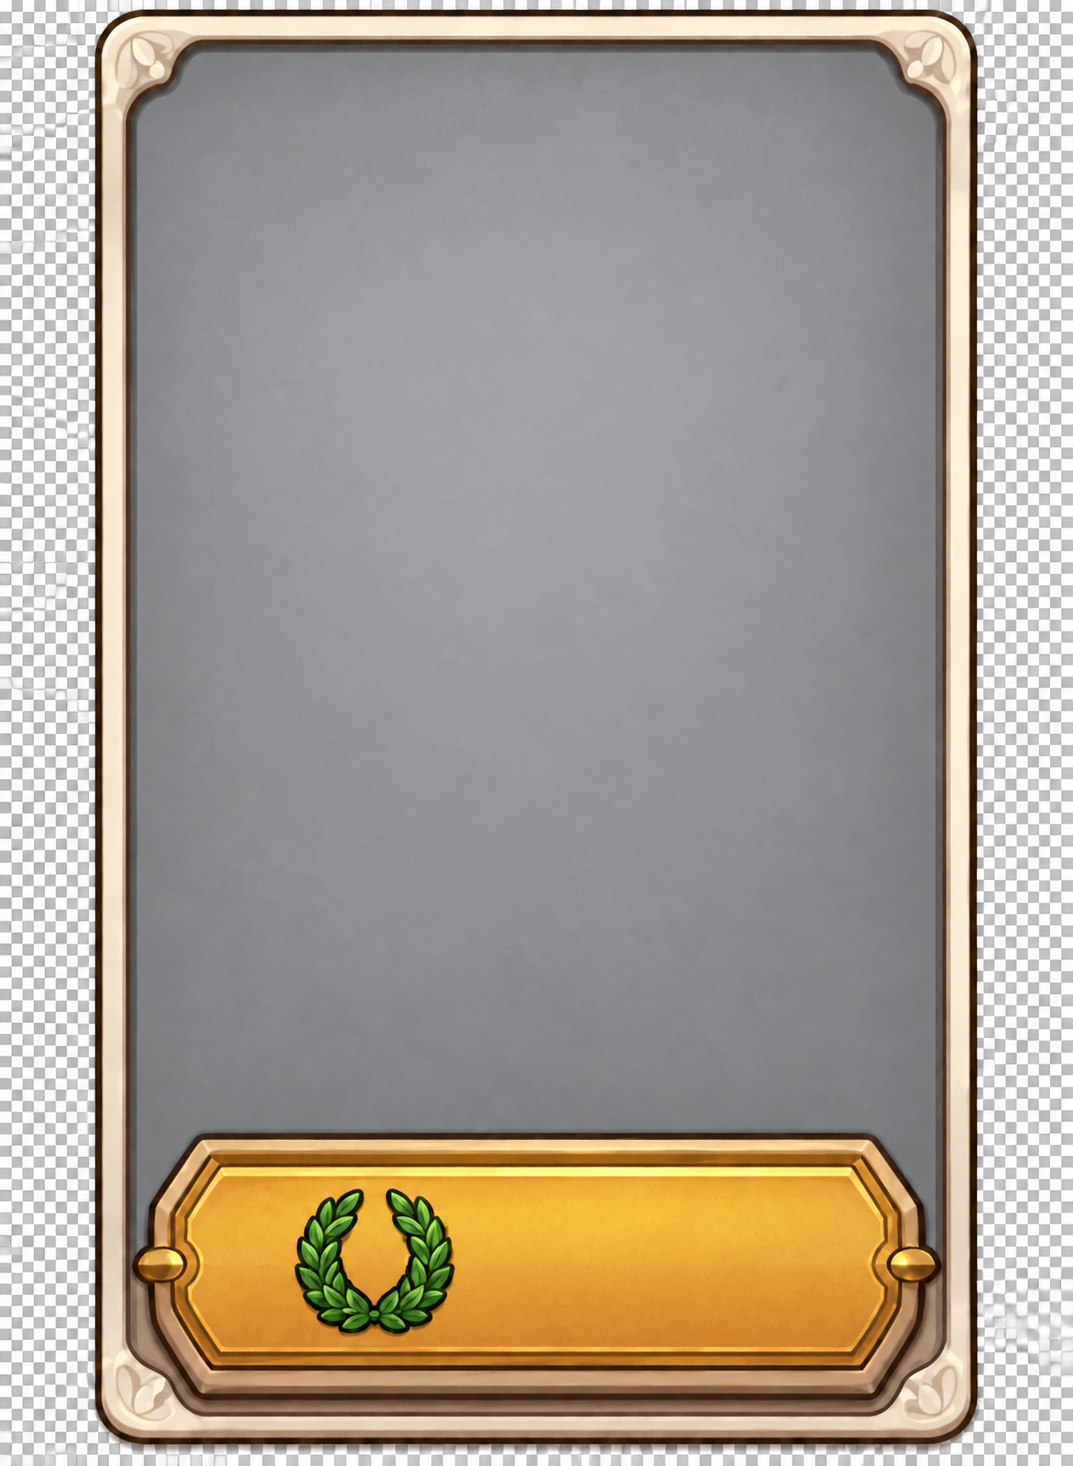
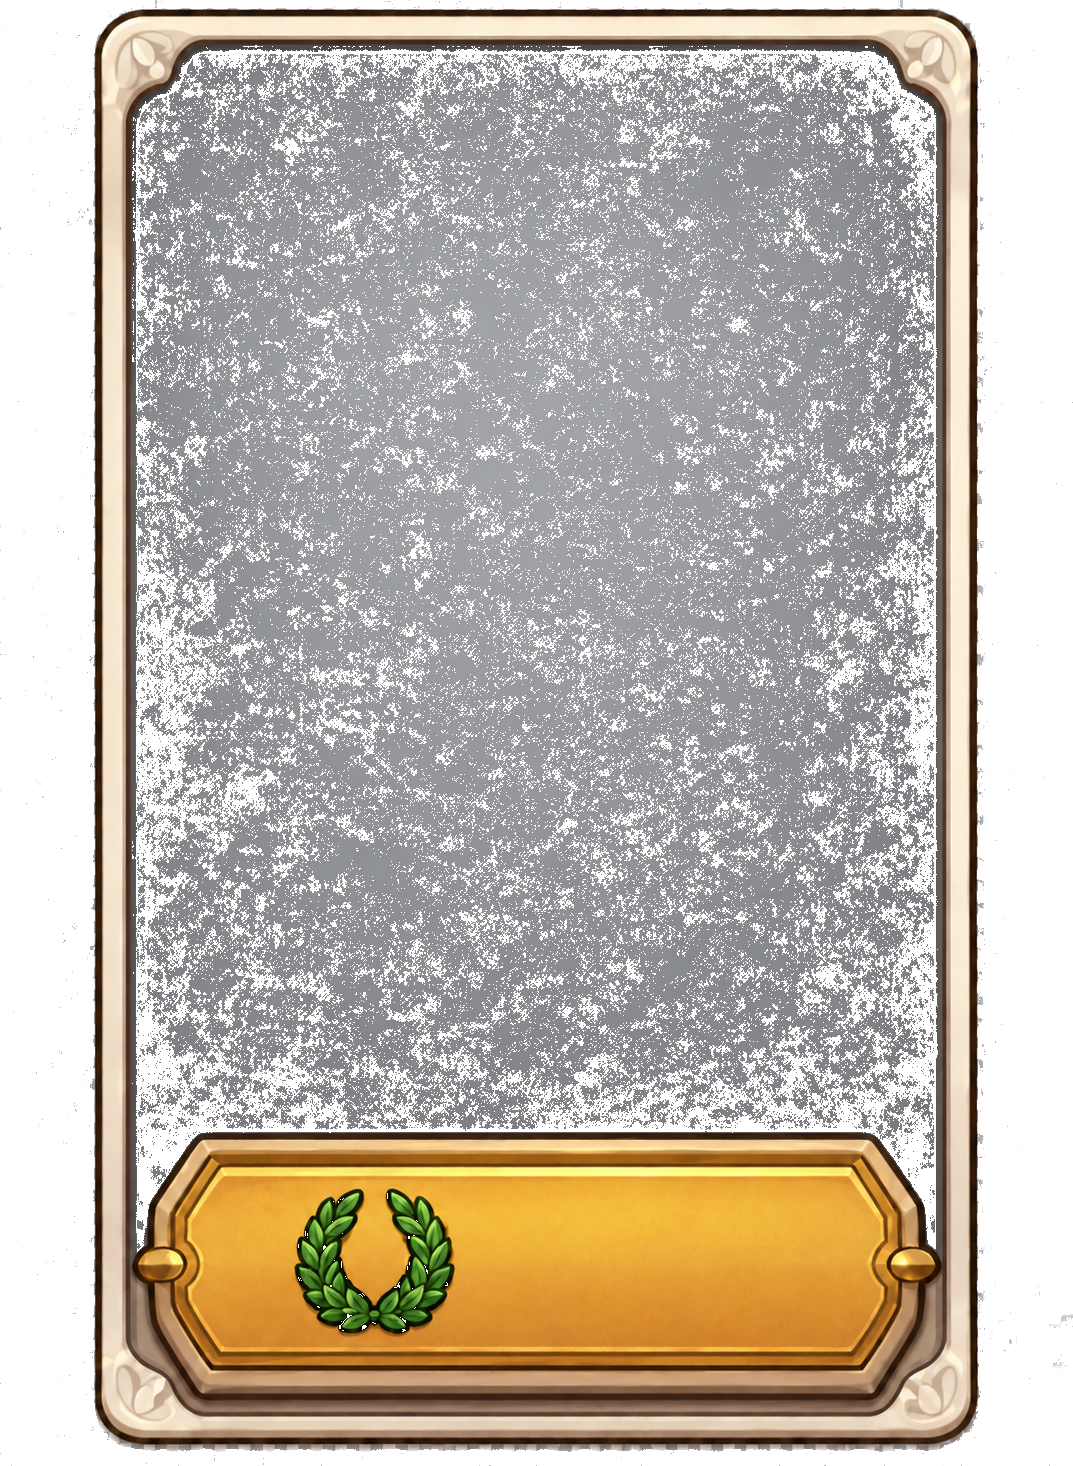
Affiche les parures dans leur cadre de rareté, en vitrine glissante
- SkinCard.tsx : la vignette d'une parure — son cadre (Case_Mortelle /
  Heroique / Titanesque / Olympienne selon sa rareté), son illustration,
  son nom et son prix posé à côté de la couronne déjà gravée dans la
  plaque. Le prix est lui-même le bouton d'achat.
- ShopTab.tsx : le rayon « Parures » montre trois pièces choisies
  (Rage du Lion, Roi des Abysses, Messager d'Or) dans une rangée qui
  glisse à l'horizontale, à la place de l'ancienne grille de pastilles
  de couleur.
- icons.ts / menuAssets.ts : RARITY_FRAMES, la table des quatre cadres,
  préchargée comme le reste des images du menu.
- Corrige les quatre PNG de cadre : leur "transparence" était en fait
  un damier gris cuit dans les pixels (aucun canal alpha) — détourés
  proprement, sans quoi ils s'affichaient avec un damier visible autour
  des coins arrondis.
- Renomme Case_Héroïque.png en Case_Heroique.png (accent + décomposition
  Unicode = introuvable par Metro, même bug que le skin Zeus plus tôt).

Claude-Session: https://claude.ai/code/session_01J9hr6RFML6j26TS1ZBtZyV

Changed region(s): [[0.0, 0.0, 1.0, 1.0], [0.4613, 0.2763, 0.4921, 0.307]]

diff --git a/src/ui/menu/ShopTab.tsx b/src/ui/menu/ShopTab.tsx
@@ -22,12 +22,22 @@
  * parure porte donc toujours l'icône du laurier, jamais celle de l'or.
  */
 
-import { Image, ScrollView, StyleSheet, Text, View } from 'react-native';
+import { ScrollView, StyleSheet, Text, View } from 'react-native';
 import { CHARACTER_ORDER, characterById, type CharacterId } from '../../entities/characters/roster';
 import { characterPrice, ownsCharacter, ownsSkin, type Progression } from '../../meta/progression';
-import { GOLD_PACKS, LAUREL_PACKS, purchasableSkins, RARITY_COLOR } from '../../meta/store';
+import { GOLD_PACKS, LAUREL_PACKS, skinById } from '../../meta/store';
 import { Button, Card, Coin, GodBadge, Laurel, SectionTitle } from './parts';
-import { COLORS, RADIUS, SPACE, TYPE, hex } from './theme';
+import { SkinCard } from './SkinCard';
+import { COLORS, RADIUS, SPACE, TYPE } from './theme';
+
+/**
+ * Le rayon des parures montre trois pièces choisies, pas tout le
+ * catalogue : une vitrine, pas une liste. En attendant un vrai tirage
+ * (rotation, mise en avant), la sélection reste fixe ici.
+ */
+const FEATURED_SKIN_IDS = ['ares-rage-du-lion', 'poseidon-roi-des-abysses', 'hermes-messager-d-or'] as const;
+
+const SKIN_CARD_WIDTH = 220;
 
 interface Props {
   state: Progression;
@@ -37,8 +47,9 @@ interface Props {
 
 export function ShopTab({ state, onBuyCharacter, onBuySkin }: Props) {
   const characters = CHARACTER_ORDER.filter((id) => !ownsCharacter(state, id));
-  const skins = purchasableSkins().filter(
-    (skin) => ownsCharacter(state, skin.characterId) && !ownsSkin(state, skin.id),
+  const skins = FEATURED_SKIN_IDS.map((id) => skinById(id)).filter(
+    (skin): skin is NonNullable<typeof skin> =>
+      skin !== null && ownsCharacter(state, skin.characterId) && !ownsSkin(state, skin.id),
   );
   const featured = GOLD_PACKS.find((pack) => pack.featured) ?? GOLD_PACKS[0];
 
@@ -111,33 +122,24 @@ export function ShopTab({ state, onBuyCharacter, onBuySkin }: Props) {
       {skins.length > 0 && (
         <>
           <SectionTitle>Parures</SectionTitle>
-          <View style={styles.skinRow}>
+          <ScrollView
+            horizontal
+            showsHorizontalScrollIndicator={false}
+            snapToInterval={SKIN_CARD_WIDTH + SPACE.md}
+            decelerationRate="fast"
+            contentContainerStyle={styles.skinRail}
+            nestedScrollEnabled
+          >
             {skins.map((skin) => {
-              const isModel = skin.rarity === 'olympien';
-              const characterAppearance = characterById(skin.characterId).appearance;
-              // Une recolorée (mortel/héros/titan) se reconnaît d'un coup
-              // d'œil à sa couleur ; une olympienne est un modèle 3D à part,
-              // pas encore prévisualisable en jeu — mais son illustration
-              // (`preview`), quand elle existe, vaut mieux que le rond de
-              // couleur uni.
+              const cannotAfford = state.laurels < skin.price;
               return (
-                <Card key={skin.id} style={[styles.skin, isModel && styles.skinLegendary]}>
-                  {skin.preview !== undefined ? (
-                    <Image source={skin.preview} style={styles.skinPreview} resizeMode="contain" />
-                  ) : (
-                    <View
-                      style={[
-                        styles.skinDot,
-                        {
-                          backgroundColor: hex(isModel ? characterAppearance.color : skin.color),
-                          borderColor: hex(RARITY_COLOR[skin.rarity]),
-                        },
-                      ]}
-                    />
-                  )}
-                  <Text style={styles.skinLabel} numberOfLines={1}>
-                    {skin.label}
-                  </Text>
+                <View key={skin.id} style={styles.skinSlot}>
+                  <SkinCard
+                    skin={skin}
+                    width={SKIN_CARD_WIDTH}
+                    onBuy={() => onBuySkin(skin.id)}
+                    disabled={cannotAfford}
+                  />
                   <Text style={styles.skinGod} numberOfLines={1}>
                     {characterById(skin.characterId).label}
                   </Text>
@@ -145,7 +147,7 @@ export function ShopTab({ state, onBuyCharacter, onBuySkin }: Props) {
                     testID={`buy-${skin.id}`}
                     label="Acheter"
                     variant="primary"
-                    disabled={state.laurels < skin.price}
+                    disabled={cannotAfford}
                     price={
                       <>
                         <Laurel size={14} />
@@ -156,10 +158,10 @@ export function ShopTab({ state, onBuyCharacter, onBuySkin }: Props) {
                     hint={`Acheter la parure ${skin.label}`}
                     style={styles.skinButton}
                   />
-                </Card>
+                </View>
               );
             })}
-          </View>
+          </ScrollView>
         </>
       )}
 
@@ -230,16 +232,13 @@ const styles = StyleSheet.create({
   rowSub: { ...TYPE.body, fontSize: 12, color: COLORS.muted },
   rowButton: { minWidth: 92 },
 
-  skinRow: { flexDirection: 'row', flexWrap: 'wrap', gap: SPACE.sm },
-  skin: { width: '31%', minWidth: 96, alignItems: 'center', gap: 2 },
-  // Le cadre doré signale une légendaire : pas de recoloration à montrer, il
-  // faut un autre repère visuel — cohérent avec le laurier de son prix.
-  skinLegendary: { borderColor: COLORS.gold, borderWidth: 2 },
-  skinDot: { width: 30, height: 30, borderRadius: 15, borderWidth: 3 },
-  skinPreview: { width: 56, height: 56 },
-  skinLabel: { ...TYPE.strong, fontSize: 13, color: COLORS.text },
+  // La rangée glisse à l'horizontale : une carte à la fois, en plein cadre,
+  // plutôt qu'une grille qui aurait tassé les cadres de rareté au point de
+  // ne plus se lire.
+  skinRail: { gap: SPACE.md, paddingHorizontal: SPACE.sm },
+  skinSlot: { width: SKIN_CARD_WIDTH, alignItems: 'center', gap: SPACE.xs },
   skinGod: { ...TYPE.body, fontSize: 11, color: COLORS.muted },
-  skinButton: { alignSelf: 'stretch', marginTop: SPACE.xs, minHeight: 34 },
+  skinButton: { alignSelf: 'stretch', minHeight: 34 },
   skinPrice: { ...TYPE.price, fontSize: 13, color: COLORS.onGold },
 
   empty: { ...TYPE.body, color: COLORS.text, textAlign: 'center', lineHeight: 20 },

diff --git a/src/ui/menu/SkinCard.tsx b/src/ui/menu/SkinCard.tsx
@@ -1,0 +1,131 @@
+/**
+ * SkinCard.tsx — la vignette d'une parure : son cadre de rareté, gravé
+ * autour de son illustration.
+ *
+ * ⚠ Les quatre cadres (`RARITY_FRAMES`) viennent d'un même gabarit dessiné
+ * à la main : une plaque à lauriers en bas, un panneau pour l'illustration
+ * au-dessus. Les repères ci-dessous (`ART_BOX`, `NAME_BAND`, `PRICE_SPOT`)
+ * sont MESURÉS sur ce gabarit, en fractions de la carte — ils ne bougent
+ * qu'ensemble avec le dessin des cadres, jamais par rareté : les quatre
+ * partagent la même mise en page, seule la teinte et la bordure changent.
+ *
+ * ⚠ Le prix se pose À CÔTÉ de la couronne DÉJÀ gravée dans la plaque : n'en
+ * ajoute jamais une seconde à côté du nombre, le cadre en porte déjà une.
+ */
+
+import { Image, Pressable, StyleSheet, Text, View } from 'react-native';
+import type { Skin } from '../../meta/store';
+import { RARITY_FRAMES } from './icons';
+import { COLORS, FONTS, RADIUS } from './theme';
+
+/** Un texte gravé, clair et cerclé de sombre : lisible sur les quatre fonds de cadre, de l'or clair au bordeaux. */
+const engraved = {
+  color: '#fbf1dc',
+  textShadowColor: 'rgba(30, 15, 5, 0.75)',
+  textShadowOffset: { width: 0, height: 1 },
+  textShadowRadius: 3,
+} as const;
+
+/** Aspect (largeur / hauteur) de chaque cadre — ils ne sont pas tout à fait carrés. */
+const FRAME_ASPECT: Readonly<Record<Skin['rarity'], number>> = {
+  mortel: 1073 / 1466,
+  heros: 1086 / 1448,
+  titan: 1080 / 1457,
+  olympien: 1080 / 1457,
+};
+
+/** Le panneau qui reçoit l'illustration, en fractions de la carte. */
+const ART_BOX = { left: '14.4%', right: '14.7%', top: '3%', bottom: '38%' } as const;
+
+/** La bande du nom, entre le bas de l'illustration et la plaque à lauriers. */
+const NAME_BAND = { left: '10%', right: '10%', top: '63.5%', height: '13%' } as const;
+
+/** Le prix, posé juste après la couronne déjà gravée dans la plaque. */
+const PRICE_SPOT = { left: '43%', right: '6%', top: '78.5%', height: '17%' } as const;
+
+export function SkinCard({
+  skin,
+  width,
+  onBuy,
+  disabled,
+}: {
+  skin: Skin;
+  width: number;
+  /** Appelé quand le joueur touche le prix, sur la plaque du cadre. */
+  onBuy?: () => void;
+  disabled?: boolean;
+}) {
+  // Une hauteur EN POINTS, pas `aspectRatio` : les enfants ci-dessous sont
+  // posés en `position: absolute` avec des pourcentages, qui ont besoin
+  // d'une hauteur déjà connue du conteneur pour se résoudre.
+  const height = width / FRAME_ASPECT[skin.rarity];
+
+  return (
+    <View style={{ width, height }}>
+      <Image
+        source={RARITY_FRAMES[skin.rarity]}
+        resizeMode="stretch"
+        // ⚠ `StyleSheet.absoluteFill` seul (juste les quatre insets) laisse
+        // react-native-web retomber sur la taille NATURELLE de l'image tant
+        // que sa propre taille n'est pas posée — d'où `width`/`height` à
+        // 100 % en plus des insets, sur le web comme sur mobile.
+        style={[StyleSheet.absoluteFill, styles.frame]}
+        accessible={false}
+        importantForAccessibility="no"
+      />
+
+      {skin.preview !== undefined && (
+        <View style={[styles.artBox, ART_BOX]}>
+          <Image source={skin.preview} resizeMode="contain" style={styles.art} />
+        </View>
+      )}
+
+      <View style={[styles.nameBand, NAME_BAND]}>
+        <Text style={styles.name} numberOfLines={2} adjustsFontSizeToFit>
+          {skin.label}
+        </Text>
+      </View>
+
+      {/* La plaque à lauriers EST le bouton d'achat : toucher le prix achète
+          la parure, pas seulement le bouton séparé sous la carte. */}
+      <Pressable
+        onPress={onBuy}
+        disabled={disabled || onBuy === undefined}
+        accessibilityRole="button"
+        accessibilityLabel={`Acheter la parure ${skin.label}`}
+        accessibilityState={{ disabled: disabled ?? false }}
+        hitSlop={6}
+        style={({ pressed }) => [styles.priceSpot, PRICE_SPOT, pressed && styles.pricePressed]}
+      >
+        <Text style={[styles.price, disabled && styles.priceDisabled]} numberOfLines={1}>
+          {skin.price.toLocaleString('fr-FR')}
+        </Text>
+      </Pressable>
+    </View>
+  );
+}
+
+const styles = StyleSheet.create({
+  frame: { width: '100%', height: '100%' },
+
+  artBox: { position: 'absolute', alignItems: 'center', justifyContent: 'flex-end' },
+  art: { width: '100%', height: '100%' },
+
+  nameBand: { position: 'absolute', alignItems: 'center', justifyContent: 'center' },
+  name: {
+    fontFamily: FONTS.titleBold,
+    fontSize: 18,
+    lineHeight: 20,
+    letterSpacing: 0.3,
+    textAlign: 'center',
+    ...engraved,
+  },
+
+  // La plaque à lauriers est TOUJOURS dorée, quelle que soit la rareté du
+  // corps de la carte — le prix reste donc en encre sombre sur cet or, sans
+  // suivre le texte gravé clair du nom.
+  priceSpot: { position: 'absolute', flexDirection: 'row', alignItems: 'center', borderRadius: RADIUS.sm },
+  pricePressed: { opacity: 0.6 },
+  price: { fontFamily: FONTS.titleBold, fontSize: 26, color: COLORS.onGold },
+  priceDisabled: { color: COLORS.muted },
+});

diff --git a/src/ui/menu/icons.ts b/src/ui/menu/icons.ts
@@ -15,6 +15,7 @@
 
 import type { ImageSourcePropType } from 'react-native';
 import type { CharacterId } from '../../entities/characters/roster';
+import type { SkinRarity } from '../../meta/store';
 import type { DistrictId } from '../../world/districts';
 
 export const ICONS = {
@@ -110,6 +111,19 @@ export const DISTRICT_ICONS: Partial<Record<DistrictId, ImageSourcePropType>> = 
  */
 export const PORTRAITS: Partial<Record<CharacterId, ImageSourcePropType>> = {
   zeus: require('../../../assets/ui/zeus.png') as ImageSourcePropType,
+};
+
+/**
+ * Le cadre de carte d'une parure, un par rareté — du gris mortel à l'or
+ * olympien. Chacun porte déjà sa propre couronne de laurier gravée dans une
+ * plaque en bas : c'est à côté d'elle que `SkinCard` pose le prix, jamais
+ * une seconde couronne à part.
+ */
+export const RARITY_FRAMES: Readonly<Record<SkinRarity, ImageSourcePropType>> = {
+  mortel: require('../../../assets/ui/Case_Mortelle.png') as ImageSourcePropType,
+  heros: require('../../../assets/ui/Case_Heroique.png') as ImageSourcePropType,
+  titan: require('../../../assets/ui/Case_Titanesque.png') as ImageSourcePropType,
+  olympien: require('../../../assets/ui/Case_Olympienne.png') as ImageSourcePropType,
 };
 
 /**

diff --git a/src/ui/menu/menuAssets.ts b/src/ui/menu/menuAssets.ts
@@ -1,7 +1,7 @@
 import { Asset } from 'expo-asset';
 
 import { purchasableSkins } from '../../meta/store';
-import { ART, DISTRICT_ICONS, ICONS, PLATES, PORTRAITS } from './icons';
+import { ART, DISTRICT_ICONS, ICONS, PLATES, PORTRAITS, RARITY_FRAMES } from './icons';
 
 /** Les deux décors du ruban, partagés avec `MenuScreen`. */
 export const MENU_WALLPAPERS = {
@@ -24,6 +24,7 @@ const MENU_ASSETS = [
   ...Object.values(DISTRICT_ICONS),
   ...Object.values(PORTRAITS),
   ...Object.values(PLATES),
+  ...Object.values(RARITY_FRAMES),
   ...Object.values(MENU_WALLPAPERS),
   ...purchasableSkins().flatMap((skin) => (skin.preview === undefined ? [] : [skin.preview])),
 ] as AssetModule[];
